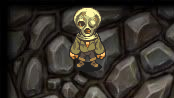
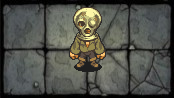
npcs y todo casi funcional

diff --git a/src/main/java/com/proyecto/Npcs/FrameNPC.java b/src/main/java/com/proyecto/Npcs/FrameNPC.java
@@ -50,19 +50,6 @@ public class FrameNPC extends JFrame implements ActionListener {
     }
 
 
-    private static class JPanelWithBackground extends JPanel {
-
-        public JPanelWithBackground() {
-            setOpaque(false);
-        }
-
-        @Override
-        protected void paintComponent(Graphics g) {
-            g.drawImage(new ImageIcon(bgPath).getImage(), 0, 0, getWidth(), getHeight(), this);
-            super.paintComponent(g);
-        }
-    }
-
     private static class JPanelWithBackground2 extends JPanel {
 
         private Image background;
@@ -79,35 +66,6 @@ public class FrameNPC extends JFrame implements ActionListener {
         }
     }
 
-
-
-
-
-    public void crearImagen(String path) {
-        try {
-            // cargar el background y la imagen
-            File backgroundFile = new File("src/main/java/com/proyecto/imagenes/fondoNPC2.png");
-            File imageFile = new File(path);
-            BufferedImage backgroundImage = ImageIO.read(backgroundFile);
-            BufferedImage image = ImageIO.read(imageFile);
-
-            // crear una nueva imagen con el mismo tamaño que el background
-            BufferedImage combined = new BufferedImage(543, 720, BufferedImage.TYPE_INT_ARGB);
-
-            // dibujar el background en la nueva imagen
-            Graphics2D g = (Graphics2D) combined.getGraphics();
-            g.drawImage(backgroundImage, 0, 0, null);
-
-            // dibujar la imagen encima del background
-            g.drawImage(image, 68, 150, null);
-
-            // guardar la imagen combinada en un archivo
-            File outputFile = new File("src/main/java/com/proyecto/imagenes/bgNPC.png");
-            ImageIO.write(combined, "png", outputFile);
-        }catch (IOException e){
-            System.out.println(e.getMessage());
-        }
-    }
 
     public String NpcAleatorio() {
         switch (numNpc) {
@@ -160,34 +118,22 @@ public class FrameNPC extends JFrame implements ActionListener {
     public void setPaths() {
         switch (numNpc) {
             case 1:
-                npcImage= "src/main/java/com/proyecto/imagenes/Alex.png";
-                bgPath="src/main/java/com/proyecto/imagenes/bgNPC.png";
-
+                bgPath="src/main/java/com/proyecto/imagenes/bgNPC1.png";
                 break;
             case 2:
-                npcImage= "src/main/java/com/proyecto/imagenes/Archibald.png";
-                bgPath="src/main/java/com/proyecto/imagenes/bgNPC.png";
-
+                bgPath="src/main/java/com/proyecto/imagenes/bgNPC2.png";
                 break;
             case 3:
-                npcImage= "src/main/java/com/proyecto/imagenes/Damian.png";
-                bgPath="src/main/java/com/proyecto/imagenes/bgNPC.png";
-
+                bgPath="src/main/java/com/proyecto/imagenes/bgNPC3.png";
                 break;
             case 4:
-                npcImage= "src/main/java/com/proyecto/imagenes/Diana.png";
-                bgPath="src/main/java/com/proyecto/imagenes/bgNPC.png";
-
+                bgPath="src/main/java/com/proyecto/imagenes/bgNPC4.png";
                 break;
             case 5:
-                npcImage= "src/main/java/com/proyecto/imagenes/Ladron.png";
-                bgPath="src/main/java/com/proyecto/imagenes/bgNPC.png";
-
+                bgPath="src/main/java/com/proyecto/imagenes/bgNPC5.png";
                 break;
             case 6:
-                npcImage= "src/main/java/com/proyecto/imagenes/Vigilante.png";
-                bgPath="src/main/java/com/proyecto/imagenes/bgNPC.png";
-
+                bgPath="src/main/java/com/proyecto/imagenes/bgNPC6.png";
                 break;
         }
     }
@@ -305,7 +251,6 @@ public class FrameNPC extends JFrame implements ActionListener {
         this.setPreferredSize(new Dimension(1280, 720));
 
         setPaths();
-        crearImagen(npcImage);
 
         // Ventana de Npc
         setDefaultCloseOperation(JFrame.EXIT_ON_CLOSE);
@@ -334,8 +279,12 @@ public class FrameNPC extends JFrame implements ActionListener {
         textYButtonsPanel.setPreferredSize(new Dimension(717, 720));
         NpcPanel.setPreferredSize(new Dimension(1280, 720));
         NpcPanel.setLayout(new BorderLayout());
-        imagenNPC = new JPanelWithBackground();
-        imagenNPC.setPreferredSize(new Dimension(566, 720));
+        imagenNPC = new JPanel();
+        imagenNPC.setLayout(new BorderLayout());
+        JLabel imagen = new JLabel(new ImageIcon(bgPath));
+        imagen.setPreferredSize(new Dimension(543, 720));
+        imagenNPC.add(imagen, BorderLayout.CENTER);
+        imagenNPC.setPreferredSize(new Dimension(543, 720));
         NpcDialog = new JTextArea();
         NpcDialog.setEditable(false);
         NpcDialog.setLineWrap(true);

diff --git a/src/main/java/com/proyecto/inventario/Hechizos.java b/src/main/java/com/proyecto/inventario/Hechizos.java
@@ -4,14 +4,14 @@ import com.proyecto.core.FrameCombate;
 
 public class Hechizos {
 
-    public Item gritoGreyol = new Item("El grito de Greyol.","Produce el grito de Greyoll, Anciano de los Dragones. Inflige mucho daño a todos los enemigos que te rodean.\n Coste: 30.\n Daño base: 100.",0,Item.HECHIZO);
-    public Item llamaCruel = new Item("Llama del Dios Cruel.","Invoca una bola de fuego devastadora, que explota e incendia el área circundante.\n Coste: 35.\n Daño base: 120.",0,Item.HECHIZO);
-    public Item cometaAzur = new Item("Cometa azur.","Dispara un temible cometa al corazón de una oleada estelar. Con el equipo adecuado, este hechizo puede matar a los jefes directamente.\n Coste: 70.\n Daño base: 200.",0,Item.HECHIZO);
-    public Item estrellasPerdicion = new Item("Estrellas de perdición.","Dispara 12 estrellas fugaces oscuras que acechan al enemigo.\n Coste: 20.\n Daño base: 80.",0,Item.HECHIZO);
-    public Item estrellasElden = new Item("Estrellas de Elden.","Desencadena una lluvia de estrellas fugaces doradas que infligen daño en un área.\n Coste: 90.\n Daño base: 290.",0,Item.HECHIZO);
-    public Item lluviaPrimigenia = new Item("Lluvia de estrellas primigenias.","Desencadena una lluvia de estrellas que persiste durante unos segundos.\n Coste: 55.\n Daño base: 175.",0,Item.HECHIZO);
-    public Item lunaRanni = new Item("La luna oscura de Ranni.","Invocas una luna oscura y luego la arrojas a los enemigos.\n Coste: 110.\n Daño base: 300.",0,Item.HECHIZO);
-    public Item ataudNegro = new Item("Ataúd negro.", "Cargas un poderoso rayo de la noche que hace un daño masivo a un solo enemigo.\n Coste: 100.\n Daño base: 310.",0,Item.HECHIZO);
+    public Item gritoGreyol = new Item("El grito de Greyol.","Produce el grito de Greyoll, Anciano de los Dragones. Inflige mucho daño a todos los enemigos que te rodean.\n Coste: 30.\n Daño base: 100.",1,Item.HECHIZO);
+    public Item llamaCruel = new Item("Llama del Dios Cruel.","Invoca una bola de fuego devastadora, que explota e incendia el área circundante.\n Coste: 35.\n Daño base: 120.",1,Item.HECHIZO);
+    public Item cometaAzur = new Item("Cometa azur.","Dispara un temible cometa al corazón de una oleada estelar. Con el equipo adecuado, este hechizo puede matar a los jefes directamente.\n Coste: 70.\n Daño base: 200.",1,Item.HECHIZO);
+    public Item estrellasPerdicion = new Item("Estrellas de perdición.","Dispara 12 estrellas fugaces oscuras que acechan al enemigo.\n Coste: 20.\n Daño base: 80.",1,Item.HECHIZO);
+    public Item estrellasElden = new Item("Estrellas de Elden.","Desencadena una lluvia de estrellas fugaces doradas que infligen daño en un área.\n Coste: 90.\n Daño base: 290.",1,Item.HECHIZO);
+    public Item lluviaPrimigenia = new Item("Lluvia de estrellas primigenias.","Desencadena una lluvia de estrellas que persiste durante unos segundos.\n Coste: 55.\n Daño base: 175.",1,Item.HECHIZO);
+    public Item lunaRanni = new Item("La luna oscura de Ranni.","Invocas una luna oscura y luego la arrojas a los enemigos.\n Coste: 110.\n Daño base: 300.",1,Item.HECHIZO);
+    public Item ataudNegro = new Item("Ataúd negro.", "Cargas un poderoso rayo de la noche que hace un daño masivo a un solo enemigo.\n Coste: 100.\n Daño base: 310.",1,Item.HECHIZO);
 
     public float usarHechizo(String nombre, float vidaEnemy){
         switch (nombre) {

diff --git a/src/main/java/com/proyecto/core/FrameMapa.java b/src/main/java/com/proyecto/core/FrameMapa.java
@@ -223,6 +223,7 @@ public class FrameMapa {
         try {
             if (nuevaCasilla != null && !nuevaCasilla.esPared() && !nuevaCasilla.esCasillaOcupada()) {
                 habitacionActual.setCasillaOcupada(false);
+                boolean estabaDescubierta = nuevaCasilla.esDescubierta();
                 nuevaCasilla.setCasillaOcupada(true);
                 nuevaCasilla.setEsDescubierta(true);
                 habitacionActual.repaint();
@@ -253,23 +254,20 @@ public class FrameMapa {
                 if (habitacionActual.esMeta()) {
                     JOptionPane.showMessageDialog(ventana, "¡Felicidades, has llegado a la meta!");
                     ventana.dispose();
-                }else{
+                }
+                else if (!estabaDescubierta) {
                     int random = (int) (Math.random()*10+1);
-                    if (random < 3) {
+                    if (random < 9) {
                         // Minimiza el primer JFrame
                         FrameCombate.save(Main.h);
                         Main.h.empezarCombate();
                         ventana.setExtendedState(JFrame.ICONIFIED);
                         // Crea una instancia del segundo JFrame
-                        FrameCombate segundoFrame = new FrameCombate(FrameMapa.this);
-                        // Hace visible el segundo JFrame
-                        segundoFrame.setVisible(true);
+                        new FrameCombate(FrameMapa.this);
                     }else {
                         FrameNPC.save(Main.h);
                         ventana.setExtendedState(JFrame.ICONIFIED);
-                        FrameNPC segundoFrame = new FrameNPC(FrameMapa.this);
-                        // Hace visible el segundo JFrame
-                        segundoFrame.setVisible(true);
+                        new FrameNPC(FrameMapa.this);
                     }
                 }
             }

diff --git a/src/main/java/com/proyecto/core/Habitacion.java b/src/main/java/com/proyecto/core/Habitacion.java
@@ -39,7 +39,7 @@ public class Habitacion extends JPanel {
             g.fillRect(0, 0, getWidth(), getHeight());
         }
         if (!casillaOcupada&&!esPared&&esDescubierta){
-            g.drawImage(new ImageIcon("src/main/java/com/proyecto/imagenes/sueloAdoquin.jpg").getImage(),0,0,null);
+            g.drawImage(new ImageIcon("src/main/java/com/proyecto/imagenes/sueloPiedraGris2.jpg").getImage(),0,0,null);
         }
         if (!esDescubierta && !esPared && !esCercana) {
             g.setColor(Color.BLACK);
@@ -64,7 +64,7 @@ public class Habitacion extends JPanel {
     public void crearImagen() {
         try {
             // cargar el background y la imagen
-            File backgroundFile = new File("src/main/java/com/proyecto/imagenes/sueloAdoquin.jpg");
+            File backgroundFile = new File("src/main/java/com/proyecto/imagenes/sueloPiedraGris2.jpg");
             File imageFile = new File("src/main/java/com/proyecto/imagenes/pjPrincipal.png");
             BufferedImage backgroundImage = ImageIO.read(backgroundFile);
             BufferedImage image = ImageIO.read(imageFile);

diff --git a/src/main/java/com/proyecto/inventario/Curas.java b/src/main/java/com/proyecto/inventario/Curas.java
@@ -2,9 +2,9 @@ package com.proyecto.inventario;
 
 public class Curas {
 
-    public Item curas50 = new Item("Estus pequeño", "El Frasco de Estus es el objeto restaurativo básico, cura 50 PV", 3, Item.CURACION);
-    public Item curas100 = new Item("Estus mediano", "Mejora de el Frasco de Estus básico, cura 100 PV", 0, Item.CURACION);
-    public Item curas200 = new Item("Estus grande", "Mejora de el Frasco de Estus mediano, cura 200 PV", 0, Item.CURACION);
+    public Item curas50 = new Item("Estus pequeño", "El Frasco de Estus es el objeto restaurativo básico, cura 50 PV", 1, Item.CURACION);
+    public Item curas100 = new Item("Estus mediano", "Mejora de el Frasco de Estus básico, cura 100 PV", 1, Item.CURACION);
+    public Item curas200 = new Item("Estus grande", "Mejora de el Frasco de Estus mediano, cura 200 PV", 1, Item.CURACION);
 
 
 

diff --git a/src/main/java/com/proyecto/Npcs/Alex.java b/src/main/java/com/proyecto/Npcs/Alex.java
@@ -62,7 +62,11 @@ public class Alex extends NPCs{
                 switch (elec) {
                     case 1:
                         //cura un 20% de la vida
-                        FrameNPC.h.pj.setVida(FrameNPC.h.pj.getVida() + (FrameNPC.h.vidaMax * 0.2f));
+                        if (FrameNPC.h.pj.getVida() + (FrameNPC.h.vidaMax * 0.2f)>FrameNPC.h.vidaMax){
+                            FrameNPC.h.pj.setVida(FrameNPC.h.vidaMax);
+                        }else {
+                            FrameNPC.h.pj.setVida(FrameNPC.h.pj.getVida() + (FrameNPC.h.vidaMax * 0.2f));
+                        }
                         break;
                     case 2:
                         //obten un estus mediano
